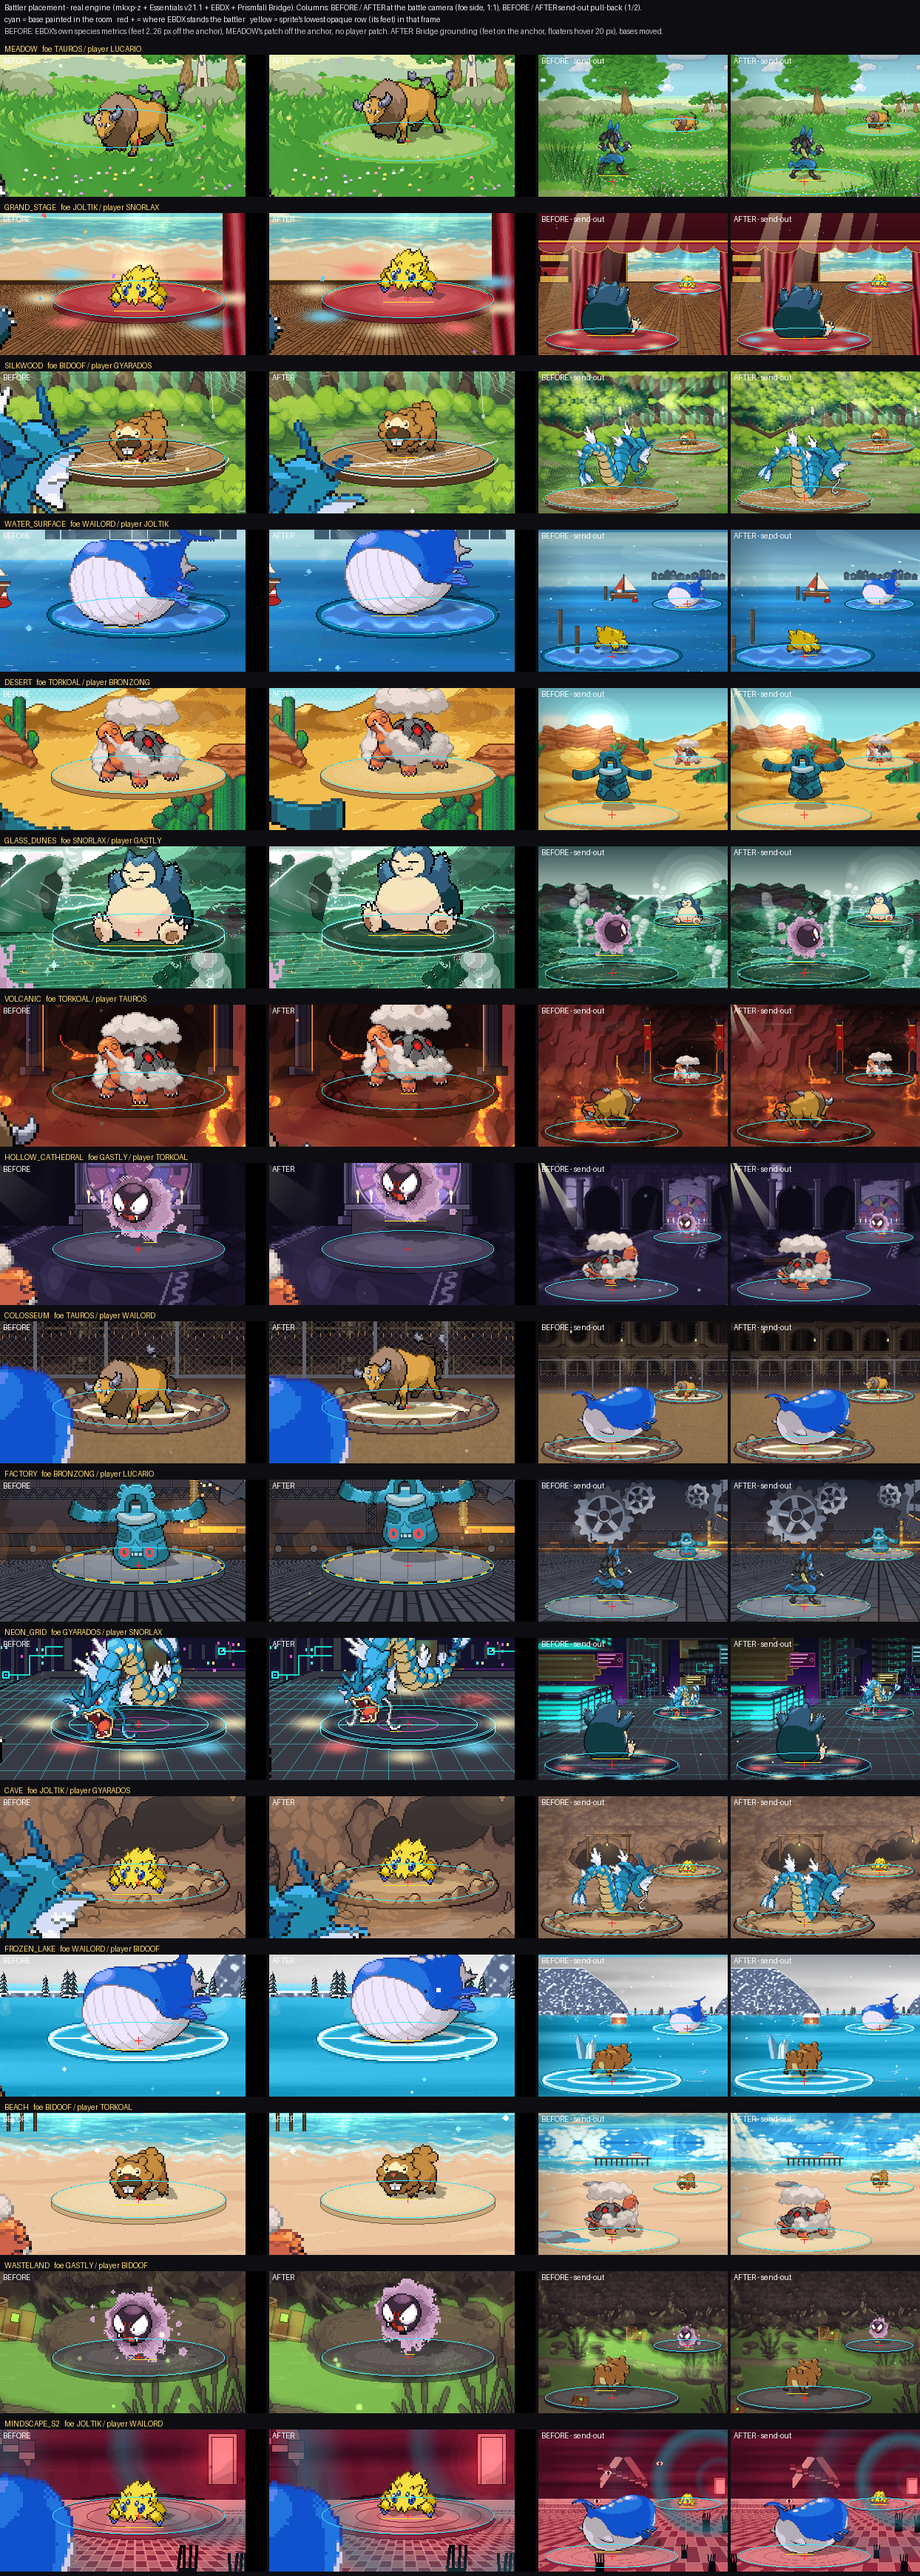
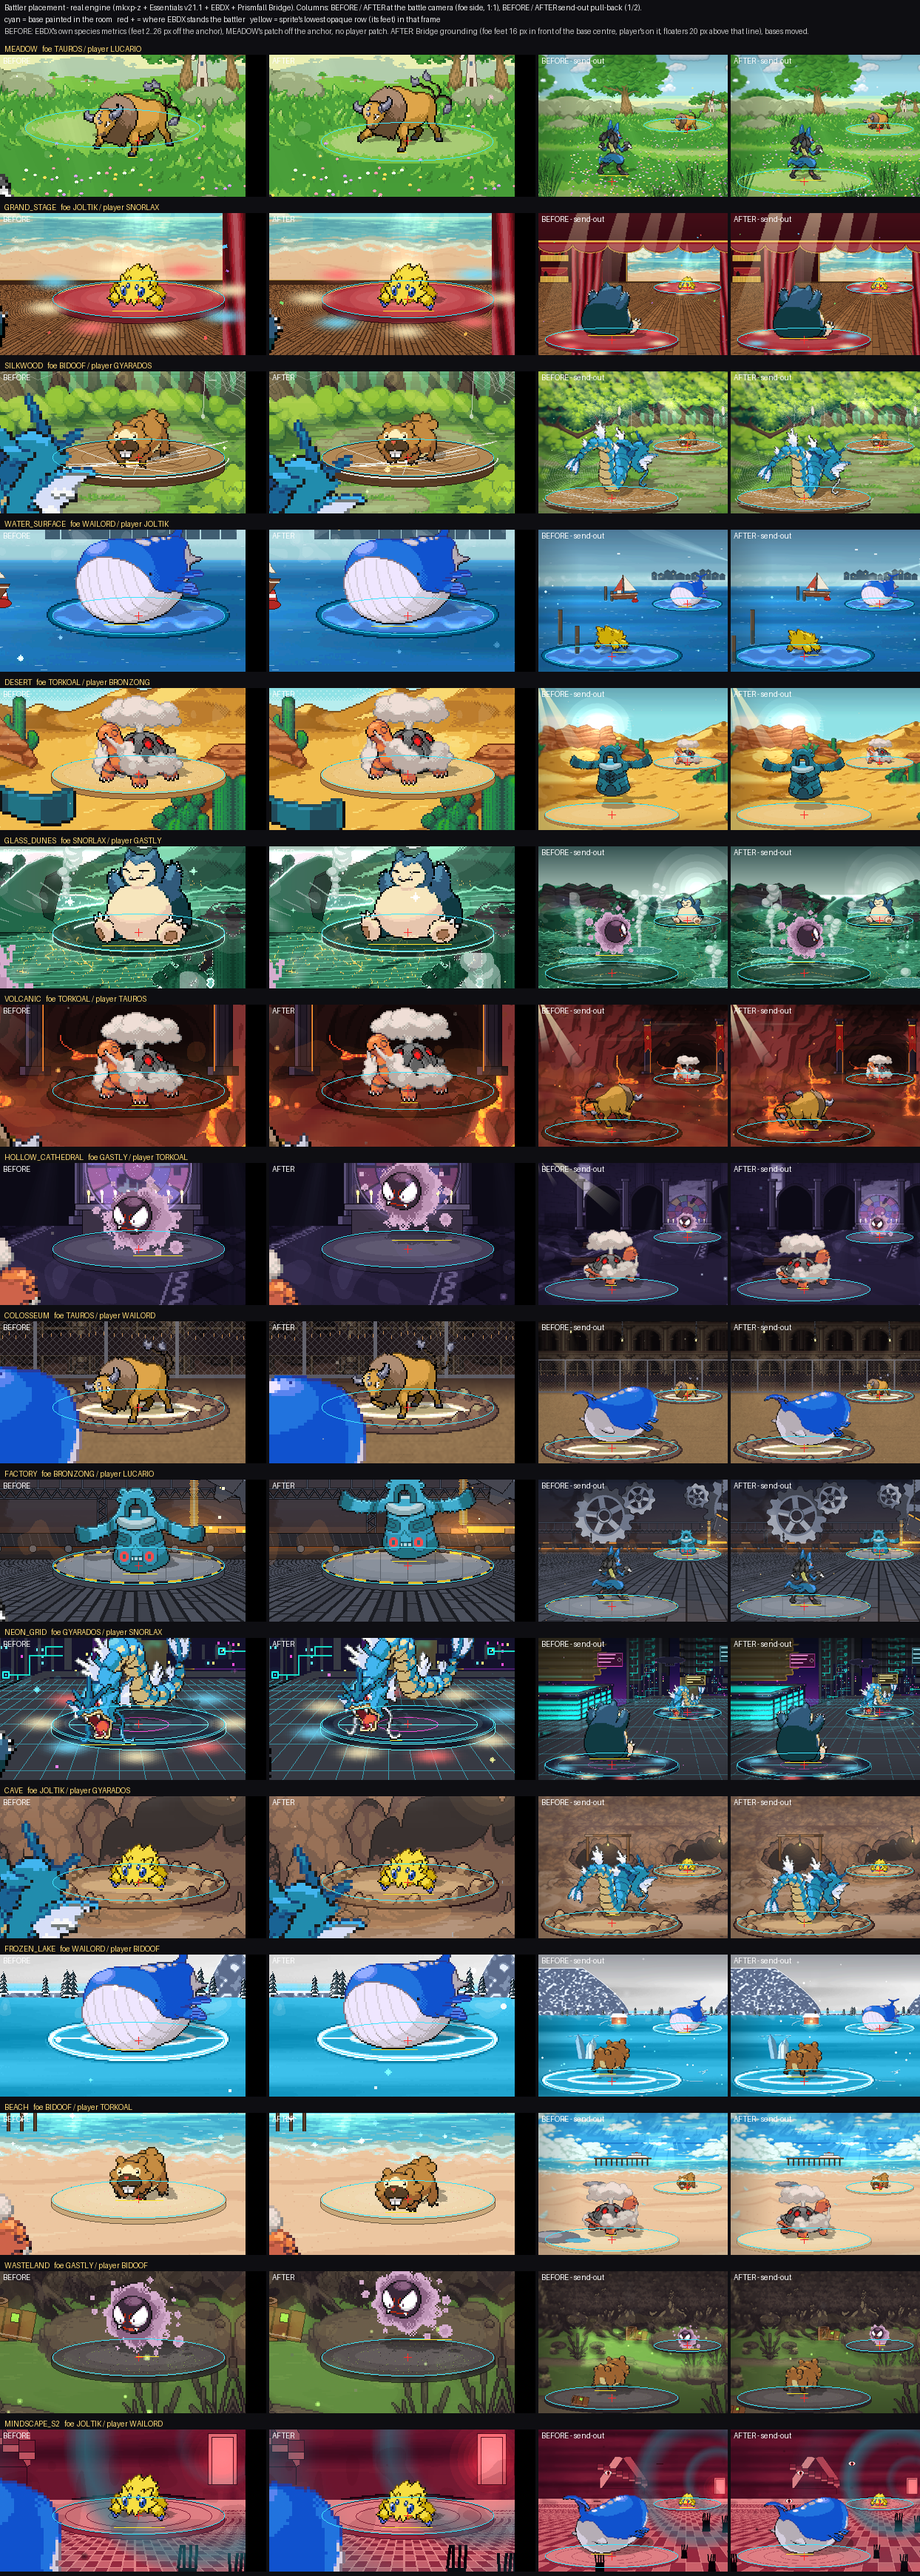
EBDX Bridge: foe feet a little in front of the base centre (FOOT_LINE front 4 -> 16)
At +4 the foe's feet read as standing just behind the centre of its base (MEADOW's Tauros). +16 bitmap px =
16 screen px in front of the centre at the battle camera (the foe base is 25 px deep each way); floaters keep
their 20 px hover above the new line, the player side is unchanged (feet on the centre). Checked on the
16-room, 10-species set at every camera: grounded foes' feet typically 64% of the way to the front edge
(9-88% with the animation bob), none on or past the rim. Before/after sheet, battle-start GIF and keys
recaptured; the GIF builder can stop at a given frame.

Claude-Session: https://claude.ai/code/session_01SBLHz7mq5tij8ELd9mbfG8

diff --git a/tools/harness/visual/placement/make_placement_sheet.py b/tools/harness/visual/placement/make_placement_sheet.py
@@ -2,7 +2,7 @@
 """Before/after sheet and battle-start GIF from the placement probe (003_PlacementProbe.rb).
 
   python3 -I make_placement_sheet.py sheet <before_dir> <after_dir> <out.png> [case ...]
-  python3 -I make_placement_sheet.py gif <intro_dir> <frames_subdir> <out_base> [frame_ms=66]
+  python3 -I make_placement_sheet.py gif <intro_dir> <frames_subdir> <out_base> [frame_ms=66] [last_frame]
 
 Marks drawn on the real-engine frames (never retouched otherwise):
   cyan ellipse  the base painted in the room (mapped through that frame's room camera)
@@ -89,7 +89,8 @@ def sheet(bdir, adir, out, cases):
     d.text((6, 20), "cyan = base painted in the room   red + = where EBDX stands the battler   yellow = sprite's "
                     "lowest opaque row (its feet) in that frame", fill=(235, 235, 235))
     d.text((6, 36), "BEFORE: EBDX's own species metrics (feet 2..26 px off the anchor), MEADOW's patch off the anchor, "
-                    "no player patch. AFTER: Bridge grounding (feet on the anchor, floaters hover 20 px), bases moved.",
+                    "no player patch. AFTER: Bridge grounding (foe feet 16 px in front of the base centre, player's on it, "
+                    "floaters 20 px above that line), bases moved.",
            fill=(200, 200, 200))
     y = head
     for c in cases:
@@ -118,9 +119,11 @@ def sheet(bdir, adir, out, cases):
     print(out, img.size, len(cases), "rooms")
 
 
-def gif(idir, sub, out, ms=66):
+def gif(idir, sub, out, ms=66, last=None):
     src = os.path.join(idir, sub)
     files = sorted(f for f in os.listdir(src) if f.endswith((".bmp", ".png")))
+    if last is not None:
+        files = files[:last + 1]
     log = {}
     p = os.path.join(idir, "intro.tsv")
     if os.path.exists(p):
@@ -153,4 +156,5 @@ if __name__ == "__main__":
     if sys.argv[1] == "sheet":
         sheet(sys.argv[2], sys.argv[3], sys.argv[4], sys.argv[5:])
     else:
-        gif(sys.argv[2], sys.argv[3], sys.argv[4], int(sys.argv[5]) if len(sys.argv) > 5 else 66)
+        gif(sys.argv[2], sys.argv[3], sys.argv[4], int(sys.argv[5]) if len(sys.argv) > 5 else 66,
+            int(sys.argv[6]) if len(sys.argv) > 6 else None)

diff --git a/plugins/Prismfall EBDX Bridge/007_Bridge_Placement.rb b/plugins/Prismfall EBDX Bridge/007_Bridge_Placement.rb
@@ -23,7 +23,10 @@
 # (send-out, recall, legacy animations) keep working.
 #
 #   FOOT_LINE  bitmap px, + = below the anchor (sprite zoom applies: the foe is
-#              drawn at 1x and the player at 2x at the battle camera)
+#              drawn at 1x and the player at 2x at the battle camera). Foe +16:
+#              its feet a little in front of the base centre (the foe base is
+#              25 px deep each way at the battle camera), as a creature standing
+#              on a disc seen from above shows its front feet.
 #   HOVER      bitmap px above the foot line for floating species
 #   FLOATING   species => true/false, wins over the automatic rule
 #              (EBDX BattlerAltitude > 0, or Levitate for species EBDX has no
@@ -32,7 +35,7 @@
 #===============================================================================
 module PrismfallEBDX
   GROUND_SPRITES = true
-  FOOT_LINE      = { :front => 4, :back => -2 }
+  FOOT_LINE      = { :front => 16, :back => -2 }
   HOVER          = 20
   # EBDX gives these an altitude for their animation (a hop, a bounce), but they stand.
   FLOATING = {

diff --git a/docs/battle_captures/placement/README.md b/docs/battle_captures/placement/README.md
@@ -34,9 +34,13 @@ Every other room's foe and player platform is centred on the anchors (checked on
 
 - `plugins/Prismfall EBDX Bridge/007_Bridge_Placement.rb` (the project's battler metric source now): when EBDX
   loads a battler bitmap, the lowest opaque row of each animation frame is measured (cached per file) and the
-  median is put on the anchor (`FOOT_LINE`: foe +4, player -2 bitmap px). Floating species (EBDX altitude > 0, or
+  median is put on the base (`FOOT_LINE`: foe +16 bitmap px = 16 screen px in front of the centre at the battle
+  camera, where the foe base is 25 px deep each way; player -2 = on the centre). Floating species (EBDX altitude > 0, or
   Levitate for species EBDX has no metrics for; `FLOATING` overrides 12 EBDX "hoppers" such as Skitty and
-  Politoed to grounded) hover a constant `HOVER` = 20 px above it; EBDX's ground shadow stays on the base. Only
+  Politoed to grounded) hover a constant `HOVER` = 20 px above that line; EBDX's ground shadow stays on the base.
+  Measured after the change (16 rooms, every camera): grounded foes' feet typically 64% of the way from the base
+  centre to its front edge (9-88% with the animation's bob), never on or past the rim; player feet typically on
+  the centre (38% behind to 16% in front). Only
   the vertical origin changes; send-out / recall / Substitute keep it; floaters don't shake the screen landing.
 - `art/battlebacks/bases.py` + `fields_h.meadow`: MEADOW's worn patch moved onto the foe point (its own pixels,
   whole art pixels), the spot refilled from the same rows, its mirror cleared, the same patch at 2x under the
